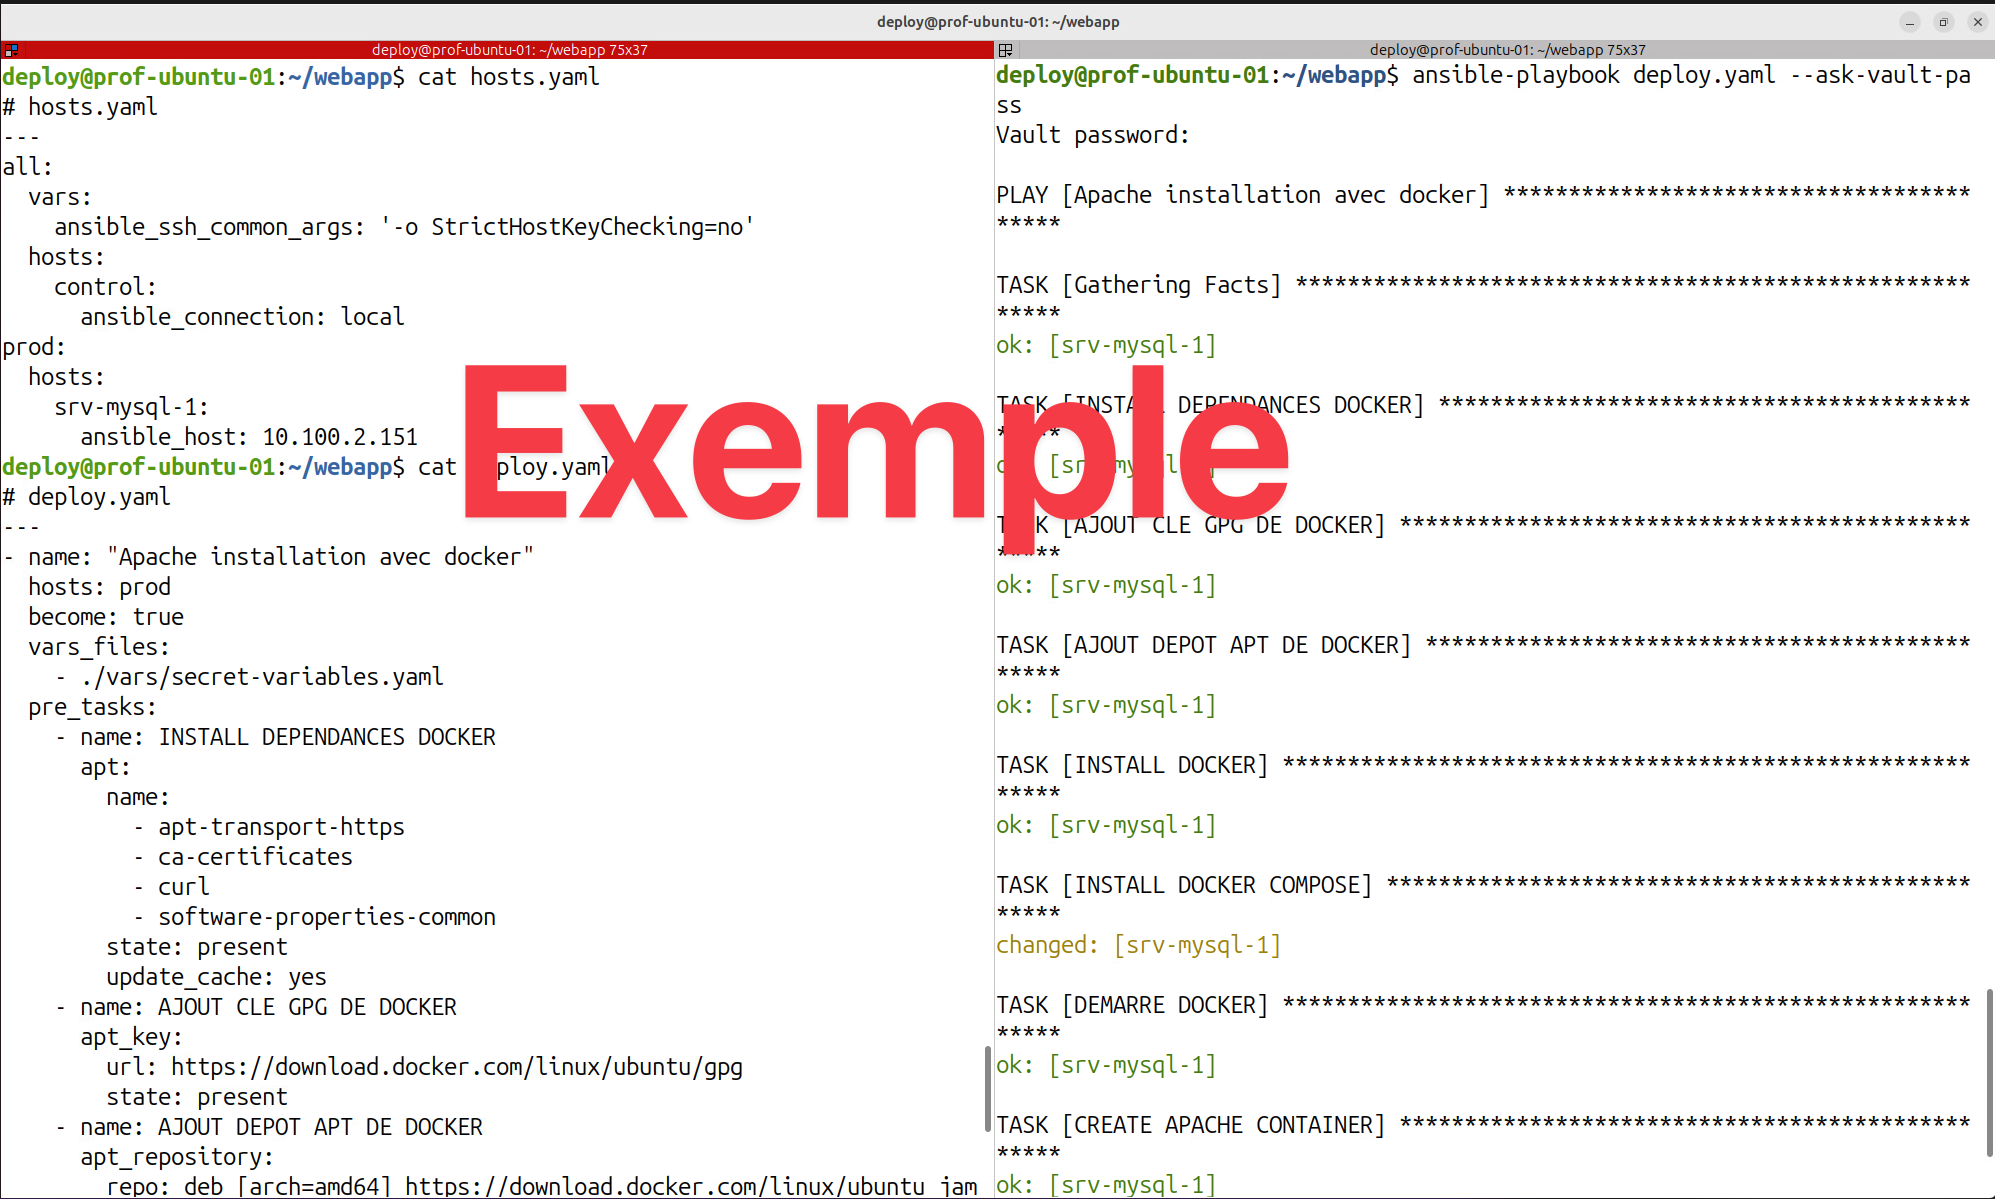
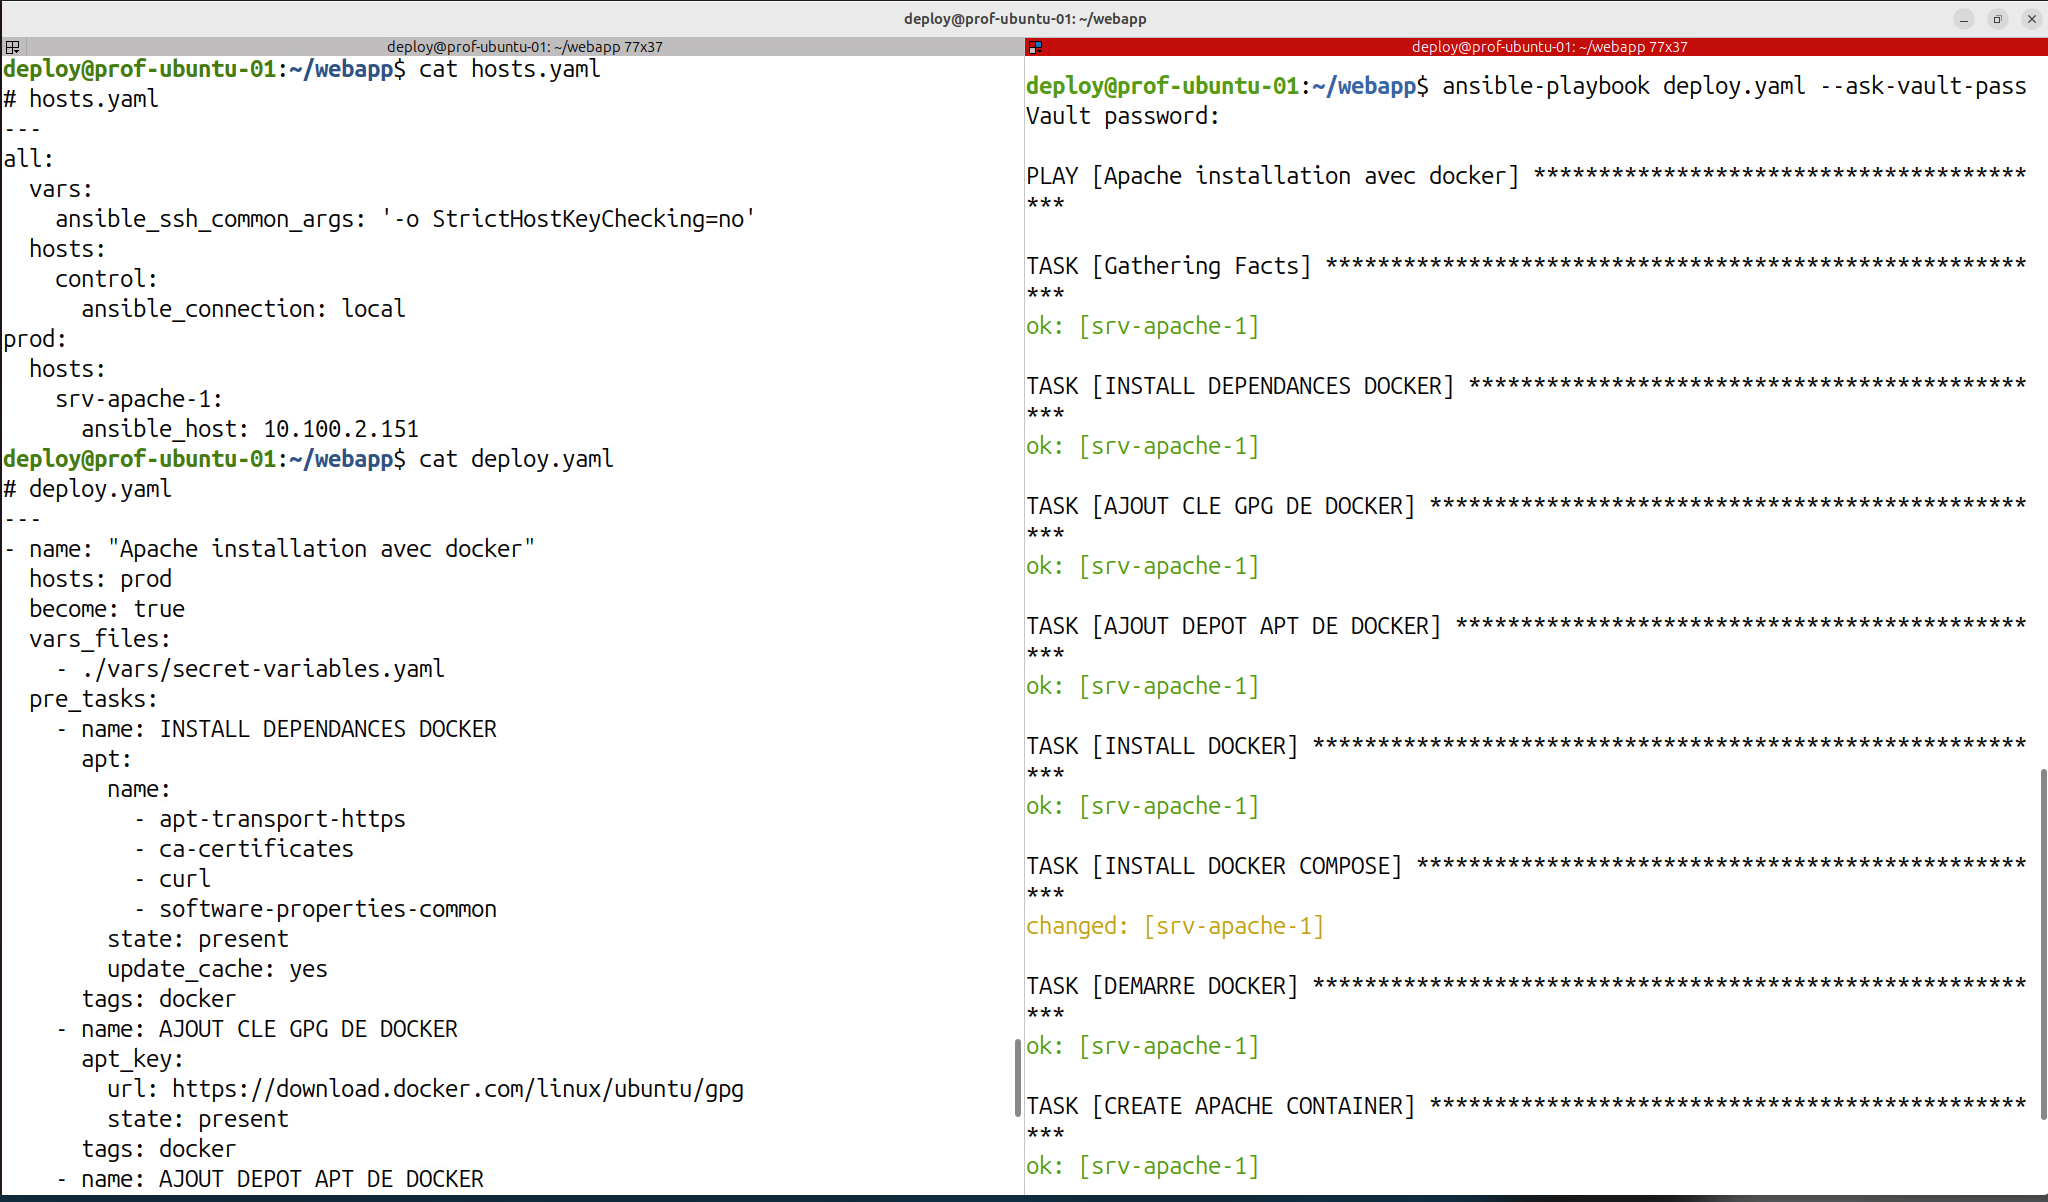
Mise à jour.

Changed region(s): [[0.0, 0.0, 1.0, 1.0], [0.2175, 0.1543, 0.3729, 0.216]]

diff --git a/Exercices/Exercice19_AnsiblePlaybook.md b/Exercices/Exercice19_AnsiblePlaybook.md
@@ -177,10 +177,6 @@ On va ajouter le module manquant, Docker et en même temps Docker Compose, direc
 - name: "Apache installation avec Docker"
   hosts: prod
   pre_tasks:
-    - name: UPDATE APT CACHE
-      apt:
-        update_cache: yes
-
     - name: INSTALL DEPENDANCES DOCKER
       apt:
         name:
@@ -189,44 +185,54 @@ On va ajouter le module manquant, Docker et en même temps Docker Compose, direc
           - curl
           - software-properties-common
         state: present
+        update_cache: yes
+      tags: docker
 
     - name: AJOUT CLE GPG DE DOCKER
       apt_key:
         url: https://download.docker.com/linux/ubuntu/gpg
         state: present
+      tags: docker
 
     - name: AJOUT DEPOT APT DE DOCKER
       apt_repository:
         repo: deb [arch=amd64] https://download.docker.com/linux/ubuntu jammy stable
         state: present
+      tags: docker
 
+  tasks:
     - name: INSTALL DOCKER
       apt:
         name: docker-ce
         state: present
         update_cache: yes
+      tags: docker
 
     - name: INSTALL DOCKER COMPOSE
       shell: curl -fsSL https://github.com/docker/compose/releases/latest/download/docker-compose-Linux-x86_64 -o /usr/local/bin/docker-compose && chmod +x /usr/local/bin/docker-compose
+      tags: docker
 
     - name: DEMARRE DOCKER
       ansible.builtin.systemd_service:
         state: started
         name: docker
+      tags: docker
 
-  tasks:
     - name : Create Apache container
       community.docker.docker_container:
         name: webapp
         image: httpd
         ports:
             - "80:80"
+      tags: apache
 ```  
 
-Exécution du playbook.  
+Nous avons ajouté des *tags* pour différencier l'installation de Docker et le lancement du conteneur.  
+
+Exécution du playbook avec le *tag* docker.  
 
 ```bash
-ansible-playbook deploy.yaml
+ansible-playbook deploy.yaml --tags docker
 ```
 
 Nouvelle erreur: <code>Permision  denied</code>
@@ -240,10 +246,6 @@ Nous n'avons pas les droits. Le compte *deploy* n'est pas suffisant. Il faut une
   hosts: prod
   become: true  
   pre_tasks:
-    - name: UPDATE APT CACHE
-      apt:
-        update_cache: yes
-
     - name: INSTALL DEPENDANCES DOCKER
       apt:
         name:
@@ -252,44 +254,52 @@ Nous n'avons pas les droits. Le compte *deploy* n'est pas suffisant. Il faut une
           - curl
           - software-properties-common
         state: present
+        update_cache: yes
+      tags: docker
 
     - name: AJOUT CLE GPG DE DOCKER
       apt_key:
         url: https://download.docker.com/linux/ubuntu/gpg
         state: present
+      tags: docker
 
     - name: AJOUT DEPOT APT DE DOCKER
       apt_repository:
         repo: deb [arch=amd64] https://download.docker.com/linux/ubuntu jammy stable
         state: present
+      tags: docker
 
+  tasks:
     - name: INSTALL DOCKER
       apt:
         name: docker-ce
         state: present
         update_cache: yes
+      tags: docker
 
     - name: INSTALL DOCKER COMPOSE
       shell: curl -fsSL https://github.com/docker/compose/releases/latest/download/docker-compose-Linux-x86_64 -o /usr/local/bin/docker-compose && chmod +x /usr/local/bin/docker-compose
+      tags: docker
 
     - name: DEMARRE DOCKER
       ansible.builtin.systemd_service:
         state: started
         name: docker
+      tags: docker
 
-  tasks:
     - name : Create Apache container
       community.docker.docker_container:
         name: webapp
         image: httpd
         ports:
             - "80:80"
+      tags: apache
 ```  
 
 Exécution de playbook.  
 
 ```bash
-ansible-playbook deploy.yaml
+ansible-playbook deploy.yaml --tags docker
 ```  
 
 Cette fois, "sudo: il est nécessaire de saisir un mot de passe".  
@@ -304,10 +314,6 @@ Nous allons y aller pour la façon la plus  simple bien sure, la moins sécurita
   vars:
     ansible_sudo_pass: MotDePasse # Mettre votre mot de passe de deploy
   pre_tasks:
-    - name: UPDATE APT CACHE
-      apt:
-        update_cache: yes
-
     - name: INSTALL DEPENDANCES DOCKER
       apt:
         name:
@@ -316,59 +322,79 @@ Nous allons y aller pour la façon la plus  simple bien sure, la moins sécurita
           - curl
           - software-properties-common
         state: present
+        update_cache: yes
+      tags: docker
 
     - name: AJOUT CLE GPG DE DOCKER
       apt_key:
         url: https://download.docker.com/linux/ubuntu/gpg
         state: present
+      tags: docker
 
     - name: AJOUT DEPOT APT DE DOCKER
       apt_repository:
         repo: deb [arch=amd64] https://download.docker.com/linux/ubuntu jammy stable
         state: present
+      tags: docker
 
+  tasks:
     - name: INSTALL DOCKER
       apt:
         name: docker-ce
         state: present
+        update_cache: yes
+      tags: docker
 
     - name: INSTALL DOCKER COMPOSE
       shell: curl -fsSL https://github.com/docker/compose/releases/latest/download/docker-compose-Linux-x86_64 -o /usr/local/bin/docker-compose && chmod +x /usr/local/bin/docker-compose
+      tags: docker
 
     - name: DEMARRE DOCKER
       ansible.builtin.systemd_service:
         state: started
         name: docker
+      tags: docker
 
-  tasks:
     - name : Create Apache container
       community.docker.docker_container:
         name: webapp
         image: httpd
         ports:
             - "80:80"
+      tags: apache
 ```  
 
 Exécution de playbook.  
 
 ```bash
-ansible-playbook deploy.yaml
+ansible-playbook deploy.yaml --tags docker
 ```  
 
 Résultat attendu :  
 
-![Le playbook fonctionne.](../images/fonctionne.png)  
+![Le playbook fonctionne.](../images/dockerInstallation.png)  
 **Figure 2 : le playbook fonctionne.**  
+
+Exécution de playbook pour le lancement du conteneur.  
+
+```bash
+ansible-playbook deploy.yaml --tags apache
+```  
+
+Résultat attendu :  
+
+![Le lancement du conteneur.](../images/apacheConteneur.png)  
+**Figure 3 : le lancement du conteneur.**  
 
 Vérifions dans le navigateur :  
 
 ![La page est là!](../images/ItWork.jpg)  
-**Figure 3 : la page est là!**  
+**Figure 4 : la page est là!**  
 
 Et aussi sur la machine srv-apache-1 :   
 
 ![La commande docker ps.](../images/dockerps.jpg)  
-**Figure 4 : la commande docker ps.**  
+**Figure 5 : la commande docker ps.**  
 
 ### 7- Sortir le mot de passe du playbook  
 
@@ -422,7 +448,7 @@ ansible_sudo_pass: votreMotDePasse
 Exécution du playbook.  
 
 ```bash
-ansible-playbook deploy.yaml
+ansible-playbook deploy.yaml --tags docker
 ```  
 
 Jusqu'à maintenant, nous avons toujours le mot de passe dans un fichier texte. Donc, nous avons un problème de sécurité.  
@@ -499,10 +525,6 @@ Modifiez le fichier <code>deploy.yaml</code> pour ajouter le fichier contenant l
   vars_files:
     - ./vars/secret-variables.yaml
   pre_tasks:
-    - name: UPDATE APT CACHE
-      apt:
-        update_cache: yes
-
     - name: INSTALL DEPENDANCES DOCKER
       apt:
         name:
@@ -511,50 +533,58 @@ Modifiez le fichier <code>deploy.yaml</code> pour ajouter le fichier contenant l
           - curl
           - software-properties-common
         state: present
+        update_cache: yes
+      tags: docker
 
     - name: AJOUT CLE GPG DE DOCKER
       apt_key:
         url: https://download.docker.com/linux/ubuntu/gpg
         state: present
+      tags: docker
 
     - name: AJOUT DEPOT APT DE DOCKER
       apt_repository:
         repo: deb [arch=amd64] https://download.docker.com/linux/ubuntu jammy stable
         state: present
+      tags: docker
 
+  tasks:
     - name: INSTALL DOCKER
       apt:
         name: docker-ce
         state: present
         update_cache: yes
+      tags: docker
 
     - name: INSTALL DOCKER COMPOSE
       shell: curl -fsSL https://github.com/docker/compose/releases/latest/download/docker-compose-Linux-x86_64 -o /usr/local/bin/docker-compose && chmod +x /usr/local/bin/docker-compose
+      tags: docker
 
     - name: DEMARRE DOCKER
       ansible.builtin.systemd_service:
         state: started
         name: docker
+      tags: docker
 
-  tasks:
     - name : Create Apache container
       community.docker.docker_container:
         name: webapp
         image: httpd
         ports:
             - "80:80"
+      tags: apache
 ```  
 
 Maintenant, on doit ajouter le paramètre <code>--ask-vault-pass</code> au lancement de notre playbook :  
 
 ```bash
-ansible-playbook deploy.yaml --ask-vault-pass
+ansible-playbook deploy.yaml --ask-vault-pass --tags docker
 ```  
 
 Le mot de passe pour ouvrir le fichier <code>secret-variables.yaml</code> est demandé.  
 
 ![L'exécution avec Vault.](../images/Vault.png)  
-**Figure 5 : l'exécution avec Vault.**  
+**Figure 6 : l'exécution avec Vault.**  
 
 Maintenant, faites un _commit_ (ne pas oublier d'ajouter les nouveaux fichiers) de votre projet et _poussez_ votre projet dans votre dépôt github.  
 
@@ -587,7 +617,7 @@ ansible-playbook deploy.yaml --ask-vaut-pass
 Exemple de remise :  
 
 ![Exemple de remise.](../images/Exerc19.png)  
-**Figure 6 : exemple de remise.**  
+**Figure 7 : exemple de remise.**  
 
 ## Références  
 [Documentation Ansible pour ```group_vars```](https://docs.ansible.com/ansible/latest/inventory_guide/intro_inventory.html#organizing-host-and-group-variables)  
